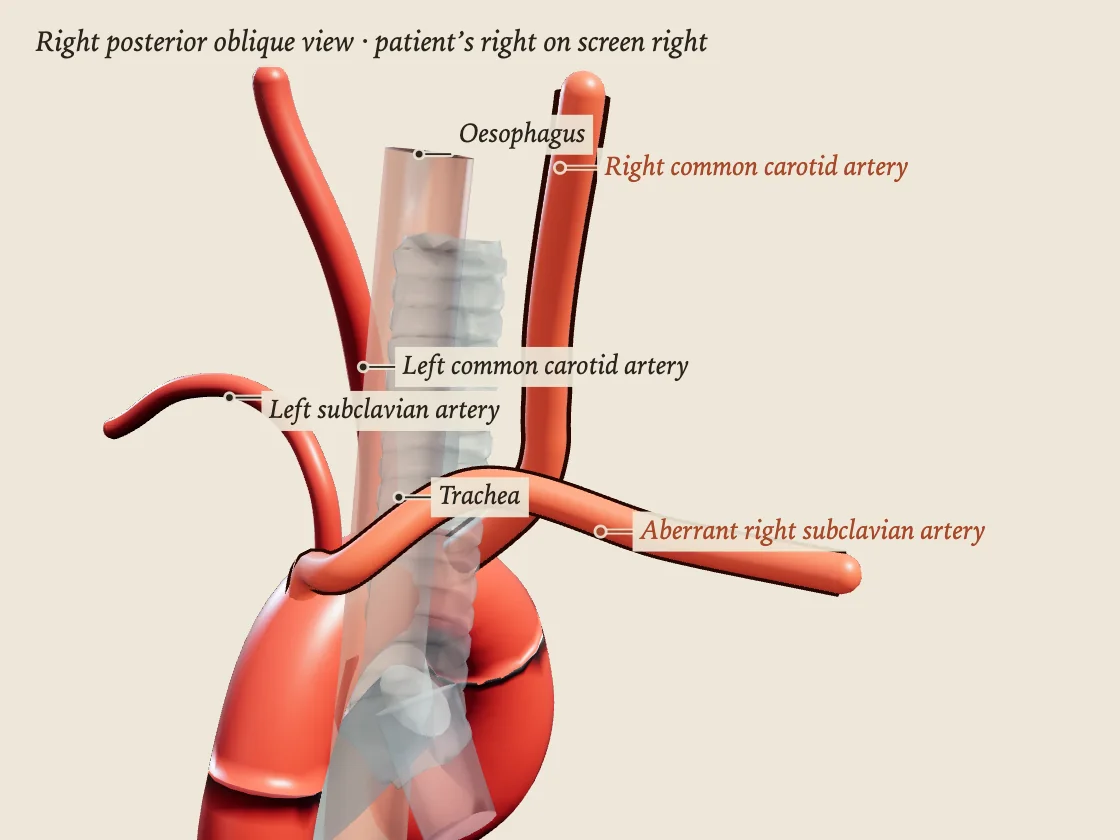
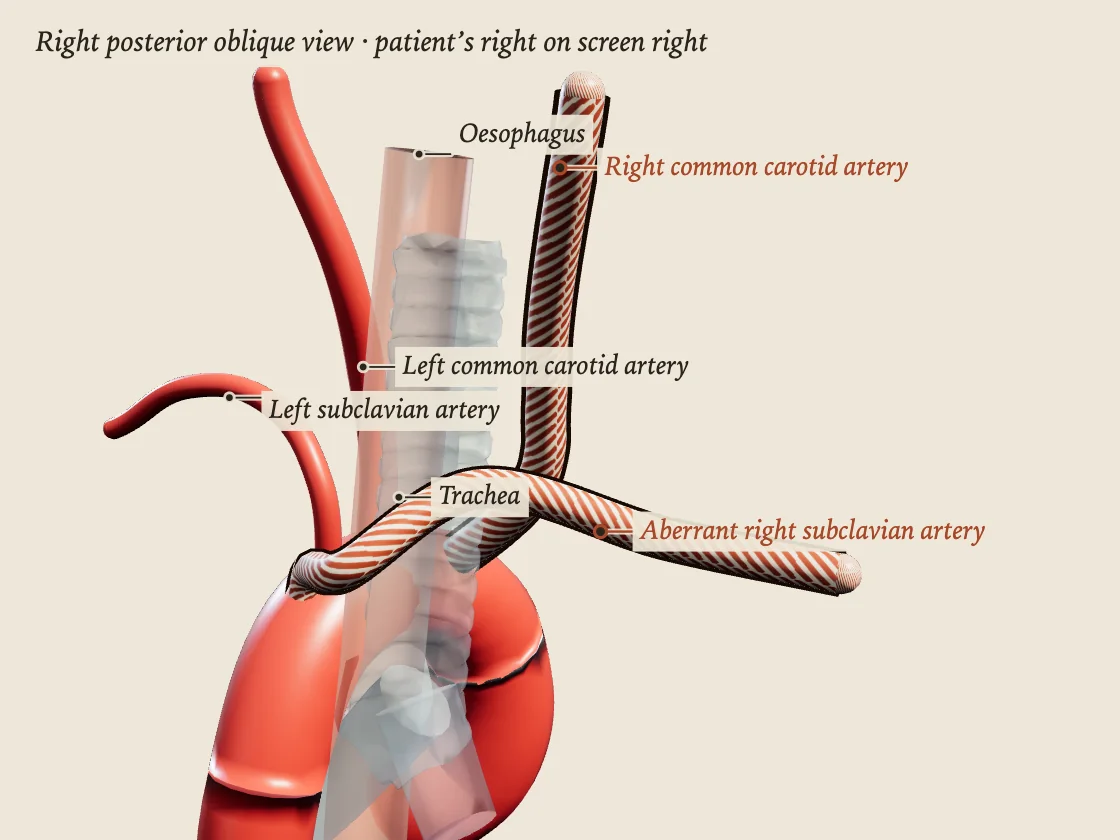
Site: credits headings by source name, inline plate numbers, prompt-box label
Credits headings show source names from credits.json instead of ids;
'Plate I.' set inline with the Examples titles; the hero's 'You, in Claude
Code' sits in the prompt box's top edge; phone h3/h2 step 1.25/1.27; hero
and example images re-rendered with the new variant print.

Changed region(s): [[0.25, 0.0619, 0.5625, 0.7119], [0.5625, 0.65, 0.7812, 0.7119]]

diff --git a/site/style.css b/site/style.css
@@ -54,15 +54,16 @@ h1,h2,h3{text-wrap:balance}
 .skip{position:absolute;left:16px;top:-48px;background:var(--ink);color:var(--bg);padding:6px 10px;font:16px var(--serif);z-index:5}
 .skip:focus{top:8px}
 /* small capitals: labels and numbers, never running text */
-.sc,.cmp .fig,.plate-title .fig,.top .fig,.k,.deck-n,.deck a,.ask-who{font-variant-caps:all-small-caps;letter-spacing:.04em;font-variant-numeric:lining-nums}
+.sc,.cmp .fig,.plate-title .fig,.top .fig,.k,.deck-n,.deck a{font-variant-caps:all-small-caps;letter-spacing:.04em;font-variant-numeric:lining-nums}
 
 /* ---------- index ---------- */
 .wrap{max-width:1240px;margin:0 auto;padding:0 56px}
 .masthead{display:grid;grid-template-columns:minmax(0,4.6fr) minmax(0,7.4fr);column-gap:64px;align-items:center;padding:88px 0 96px}
 .masthead h1{margin:0;font-weight:400;font-size:var(--fs-h1);line-height:.95;letter-spacing:-.02em}
 .desc{margin:.6rem 0 0;font-style:italic;font-size:clamp(1.4rem,2.2vw,1.75rem);line-height:1.25;color:var(--ink-2)}
-.ask{margin:36px 0 0;padding:14px 18px 15px;background:var(--surface);border:1px solid var(--rule)}
-.ask-who{display:block;margin:0 0 2px;font-size:var(--fs-small);color:var(--mut)}
+.ask{position:relative;margin:40px 0 0;padding:18px 18px 15px;background:var(--surface);border:1px solid var(--rule-ctl)}
+/* the prompt box's label, set into its top edge like a field legend */
+.ask-who{position:absolute;top:-.8em;left:12px;padding:0 6px;background:var(--bg);font-style:italic;font-size:var(--fs-small);line-height:1.5;color:var(--mut)}
 .ask-line{display:block;font-size:1.3rem;line-height:1.35;color:var(--ink)}
 .ask-line::after{content:"";display:inline-block;width:2px;height:1.05em;margin-left:3px;vertical-align:-.15em;background:var(--acc)}
 .intro{margin:24px 0 0;max-width:36em;font-size:1.08rem;line-height:1.55;color:var(--ink-2)}
@@ -132,6 +133,8 @@ main{counter-reset:none}
 .examples figcaption{padding:0 0 14px;border-bottom:1px solid var(--rule)}
 .examples .plate-img{background:var(--stage)}
 .examples .plate-title{font-size:var(--fs-h3)}
+.examples .plate-title .fig{display:inline;margin:0 .45em 0 0;font-size:.82em}
+.examples .plate-title .fig::after{content:"."}
 .ex-line{margin:8px 0 0;font-style:italic;font-size:1.02rem;line-height:1.45;color:var(--ink-2);max-width:30em}
 .topic{margin:2px 0 0;font-style:italic;font-size:1rem;color:var(--mut)}
 .views{margin:8px 0 0;font-size:1rem;line-height:1.5;color:var(--ink-2)}
@@ -235,7 +238,7 @@ body.missing{height:auto}
 }
 @media (max-width:640px){
   .wrap{padding:0 16px}
-  :root{--fs-body:18px;--fs-h3:22.5px;--fs-h2:28px}
+  :root{--fs-body:18px;--fs-h3:22.5px;--fs-h2:28.5px} /* steps 1.25, 1.27 */
   .masthead{padding:32px 0 44px;row-gap:28px}
   .ask{margin-top:24px}
   .ask-line{font-size:1.15rem}

diff --git a/site/credits.html b/site/credits.html
@@ -43,6 +43,15 @@
       }
       if (last < text.length) parent.appendChild(document.createTextNode(text.slice(last)));
     }
+    // Section headings name sources by id ("zanatomy"): shown by their human names from
+    // meshes/credits.json ("Z-Anatomy"), in headings only; the body text is left as written.
+    var names = {};
+    function headingText(t) {
+      Object.keys(names).forEach(function (id) {
+        t = t.replace(new RegExp('`?\\b' + id.replace(/[-]/g, '\\-') + '\\b`?', 'g'), names[id]);
+      });
+      return t;
+    }
     function render(md) {
       var frag = document.createDocumentFragment(), para = [], list = null;
       function flush() {
@@ -53,7 +62,7 @@
         if (h) {
           flush(); list = null;
           if (h[1].length === 1) return; // the page has its own h1
-          var e = document.createElement(h[1].length === 2 ? 'h2' : 'h3'); inline(e, h[2]); frag.appendChild(e);
+          var e = document.createElement(h[1].length === 2 ? 'h2' : 'h3'); inline(e, headingText(h[2])); frag.appendChild(e);
         } else if (li) {
           flush();
           if (!list) { list = document.createElement('ul'); frag.appendChild(list); }
@@ -69,10 +78,15 @@
       flush();
       return frag;
     }
-    fetch('meshes/CREDITS.md').then(function (r) {
+    var getNames = fetch('meshes/credits.json').then(function (r) { return r.ok ? r.json() : {}; }).then(function (c) {
+      var src = (c && c.sources) || {};
+      Object.keys(src).forEach(function (id) { names[id] = String(src[id].text).split(' (')[0].split(', ')[0]; });
+    }).catch(function () { /* ids stay as written */ });
+    Promise.all([fetch('meshes/CREDITS.md').then(function (r) {
       if (!r.ok) throw new Error('HTTP ' + r.status);
       return r.text();
-    }).then(function (t) {
+    }), getNames]).then(function (all) {
+      var t = all[0];
       out.textContent = '';
       out.appendChild(render(t));
     }).catch(function (e) {

diff --git a/site/index.html b/site/index.html
@@ -27,8 +27,8 @@
     </div>
     <figure class="mast-fig">
       <img src="hero/replaced-rha-figure.webp" width="1660" height="1143" decoding="async" fetchpriority="high"
-        alt="The figure Sagittal returned: a translucent liver with the replaced right hepatic artery, marked in clay with a dark contour, rising from the superior mesenteric artery behind the portal vein; the coeliac trunk, proper and left hepatic arteries, portal vein and common bile duct labelled in italic; below it a Normal / Variant switch, a Labels toggle and a Save as image button.">
-      <figcaption>The figure that request returns, before it is rotated. The changed vessel is printed in clay.</figcaption>
+        alt="The figure Sagittal returned: a translucent liver with the replaced right hepatic artery, printed pale with clay hatching and a dark outline, rising from the superior mesenteric artery behind the portal vein; the coeliac trunk, proper and left hepatic arteries, portal vein and common bile duct labelled in italic; below it a Normal / Variant switch, a Labels toggle and a Save as image button.">
+      <figcaption>The figure that request returns, before it is rotated. The changed vessel is printed in a second colour: pale, hatched in clay and outlined.</figcaption>
     </figure>
   </header>
 
